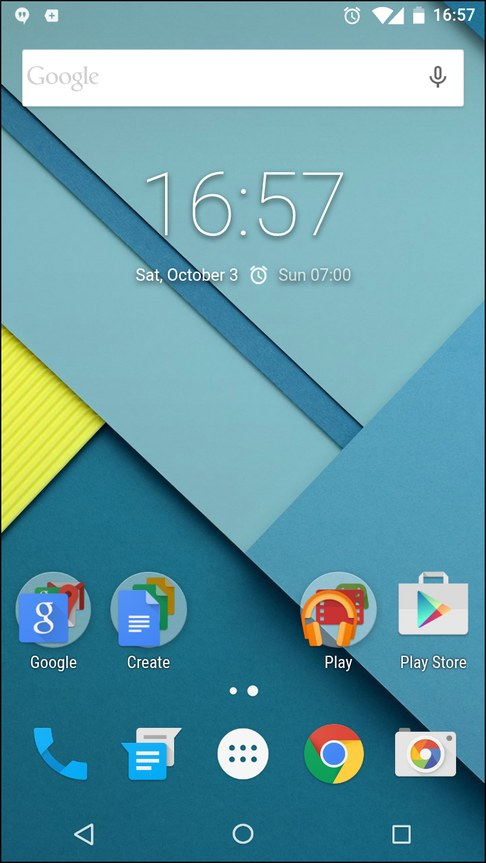
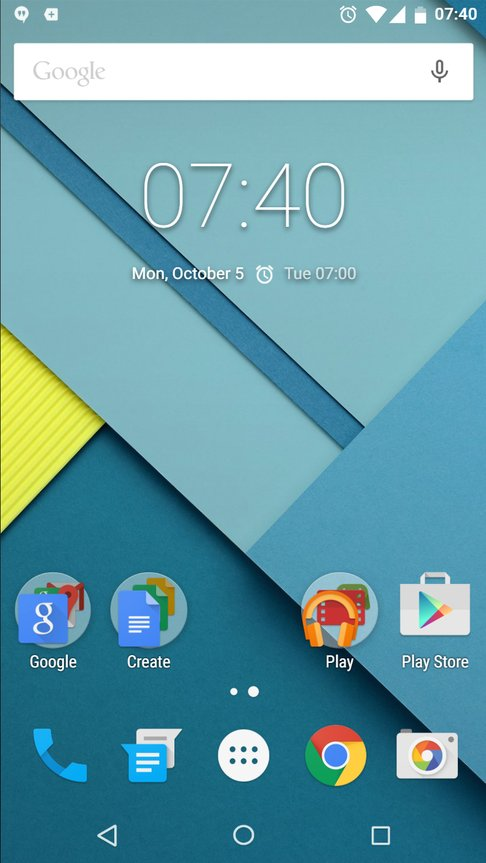
Lollipop 5.1.1 landing shot from the current simulator; OG cover regenerated with it

diff --git a/index.html b/index.html
@@ -12,7 +12,7 @@
   <meta property="og:title" content="Android Time Machine – régi Androidok a böngészőben">
   <meta property="og:description" content="Android 2.3–5.1 a Nexus S-en, a Galaxy Nexuson, a Nexus 4-en, a Nexus 5-ön és a Nexus 6-on: kezdőképernyő, értesítések, beállítások és alkalmazások – telepítés nélkül.">
   <meta property="og:url" content="https://android.levente.net/">
-  <meta property="og:image" content="https://android.levente.net/assets/og-cover.jpg?v=10">
+  <meta property="og:image" content="https://android.levente.net/assets/og-cover.jpg?v=11">
   <meta property="og:image:type" content="image/jpeg">
   <meta property="og:image:width" content="1200">
   <meta property="og:image:height" content="630">
@@ -21,7 +21,7 @@
   <link rel="icon" type="image/svg+xml" href="favicon.svg">
   <link rel="stylesheet" href="styles.css?v=20">
   <script defer src="i18n.js?v=90"></script>
-  <script defer src="versions/catalog.js?v=27"></script>
+  <script defer src="versions/catalog.js?v=28"></script>
   <script defer src="app.js?v=11"></script>
 </head>
 <body>

diff --git a/versions/2.3.6/index.html b/versions/2.3.6/index.html
@@ -12,7 +12,7 @@
   <meta property="og:title" content="Android 2.3.6 Gingerbread – Nexus S szimulátor">
   <meta property="og:description" content="Érintőgombok az üveg alatt, csúszkás zárolóképernyő, a Menü gombbal nyíló opciópanelek, zöld állapotikonok és a zombi Gingerbread húsvéti tojás.">
   <meta property="og:url" content="https://android.levente.net/versions/2.3.6/">
-  <meta property="og:image" content="https://android.levente.net/assets/og-cover.jpg?v=10">
+  <meta property="og:image" content="https://android.levente.net/assets/og-cover.jpg?v=11">
   <meta property="og:image:type" content="image/jpeg">
   <meta property="og:image:width" content="1200">
   <meta property="og:image:height" content="630">

diff --git a/versions/4.0.4/index.html b/versions/4.0.4/index.html
@@ -12,7 +12,7 @@
   <meta property="og:title" content="Android 4.0.4 Ice Cream Sandwich – Galaxy Nexus szimulátor">
   <meta property="og:description" content="Holo dizájn, képernyős navigációs gombok, mappák, kamera a zárolóképernyőről és a Nyandroid húsvéti tojás.">
   <meta property="og:url" content="https://android.levente.net/versions/4.0.4/">
-  <meta property="og:image" content="https://android.levente.net/assets/og-cover.jpg?v=10">
+  <meta property="og:image" content="https://android.levente.net/assets/og-cover.jpg?v=11">
   <meta property="og:image:type" content="image/jpeg">
   <meta property="og:image:width" content="1200">
   <meta property="og:image:height" content="630">

diff --git a/versions/5.1.1/index.html b/versions/5.1.1/index.html
@@ -12,7 +12,7 @@
   <meta property="og:title" content="Android 5.1.1 Lollipop – Nexus 6 szimulátor">
   <meta property="og:description" content="Material Design, Google Now Launcher, felugró értesítések, Áttekintés-kártyák, Smart Lock és a Lollipop Land húsvéti tojás.">
   <meta property="og:url" content="https://android.levente.net/versions/5.1.1/">
-  <meta property="og:image" content="https://android.levente.net/assets/og-cover.jpg?v=10">
+  <meta property="og:image" content="https://android.levente.net/assets/og-cover.jpg?v=11">
   <meta property="og:image:type" content="image/jpeg">
   <meta property="og:image:width" content="1200">
   <meta property="og:image:height" content="630">

diff --git a/versions/4.3/index.html b/versions/4.3/index.html
@@ -12,7 +12,7 @@
   <meta property="og:title" content="Android 4.3 Jelly Bean – Nexus 4 szimulátor">
   <meta property="og:description" content="Kinyitható értesítések, gyorsbeállítások, widgetek a zárolóképernyőn, Daydream és a BeanBag húsvéti tojás.">
   <meta property="og:url" content="https://android.levente.net/versions/4.3/">
-  <meta property="og:image" content="https://android.levente.net/assets/og-cover.jpg?v=10">
+  <meta property="og:image" content="https://android.levente.net/assets/og-cover.jpg?v=11">
   <meta property="og:image:type" content="image/jpeg">
   <meta property="og:image:width" content="1200">
   <meta property="og:image:height" content="630">

diff --git a/versions/4.4.4/index.html b/versions/4.4.4/index.html
@@ -12,7 +12,7 @@
   <meta property="og:title" content="Android 4.4.4 KitKat – Nexus 5 szimulátor">
   <meta property="og:description" content="Google Now Launcher, Google Now, Hangouts, Chrome, áttetsző rendszersávok és a Dessert Case húsvéti tojás.">
   <meta property="og:url" content="https://android.levente.net/versions/4.4.4/">
-  <meta property="og:image" content="https://android.levente.net/assets/og-cover.jpg?v=10">
+  <meta property="og:image" content="https://android.levente.net/assets/og-cover.jpg?v=11">
   <meta property="og:image:type" content="image/jpeg">
   <meta property="og:image:width" content="1200">
   <meta property="og:image:height" content="630">

diff --git a/versions/catalog.js b/versions/catalog.js
@@ -54,6 +54,6 @@ window.ANDROID_VERSIONS = [
     description: 'Material Design, the new notification shade, heads-up notifications, Overview cards and the Lollipop Land easter egg.',
     url: 'versions/5.1.1/',
     status: 'available',
-    art: {shot: 'landing-home.jpg?v=2', phone: 'nexus6'}
+    art: {shot: 'landing-home.jpg?v=3', phone: 'nexus6'}
   }
 ];
